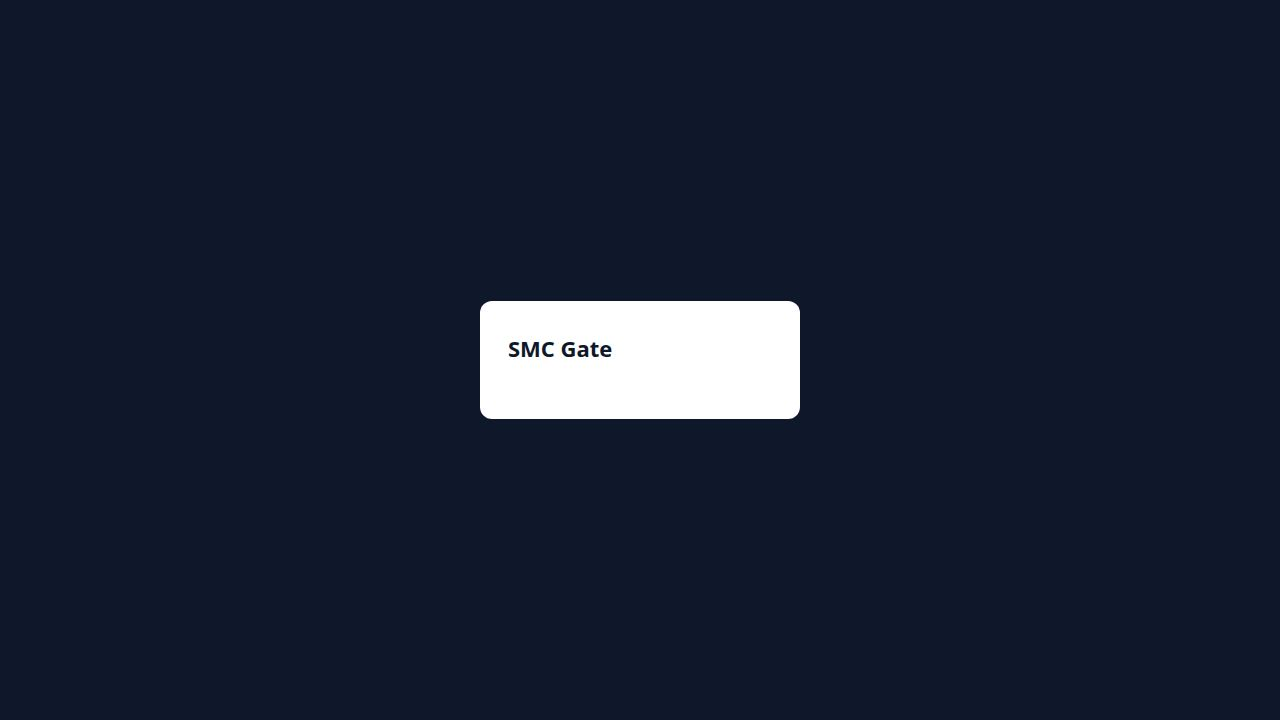
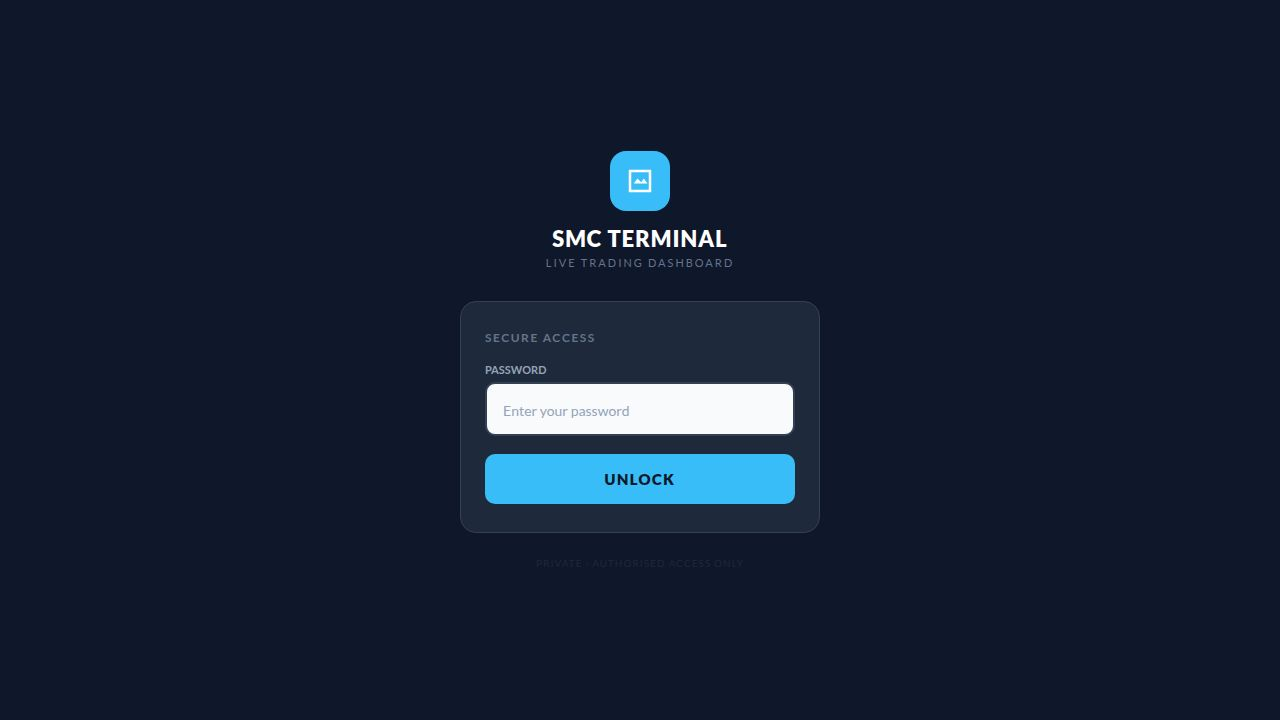
Fix website pages being cut off and not fully loading
Correct WSGI middleware to defer sending headers until after the response body is processed, ensuring full page content is delivered.

Replit-Commit-Author: Agent
Replit-Commit-Session-Id: 19ec08a7-6efd-4a7e-a15a-74d2d2e0fa23
Replit-Commit-Checkpoint-Type: full_checkpoint
Replit-Commit-Event-Id: 8ac51c1c-a0f3-40d0-aae5-dd50f2b35409
Replit-Commit-Screenshot-Url: https://storage.googleapis.com/screenshot-production-us-central1/98ecebad-03b9-400e-b17a-6d9c5aa7caed/19ec08a7-6efd-4a7e-a15a-74d2d2e0fa23/osOo6OW
Replit-Helium-Checkpoint-Created: true

Changed region(s): [[0.375, 0.3972, 0.625, 0.7028], [0.4375, 0.2139, 0.5625, 0.3667]]

diff --git a/artifacts/smc-terminal/templates/login.html b/artifacts/smc-terminal/templates/login.html
@@ -29,23 +29,17 @@
             display: inline-flex;
             align-items: center;
             justify-content: center;
-            width: 56px;
-            height: 56px;
+            width: 60px;
+            height: 60px;
             background: #38bdf8;
-            border-radius: 14px;
+            border-radius: 16px;
             margin-bottom: 14px;
-        }
-
-        .brand-badge svg {
-            width: 28px;
-            height: 28px;
-            fill: white;
         }
 
         .brand-name {
             font-size: 22px;
             font-weight: 900;
-            color: white;
+            color: #ffffff;
             letter-spacing: 1px;
         }
 
@@ -68,47 +62,52 @@
         }
 
         .card-title {
-            font-size: 14px;
+            font-size: 12px;
             font-weight: 700;
-            color: #94a3b8;
+            color: #64748b;
             text-transform: uppercase;
             letter-spacing: 1.5px;
-            margin-bottom: 20px;
+            margin-bottom: 18px;
         }
 
-        .input-wrap {
-            position: relative;
-            margin-bottom: 16px;
-        }
-
-        .input-icon {
-            position: absolute;
-            left: 14px;
-            top: 50%;
-            transform: translateY(-50%);
-            color: #475569;
+        .input-label {
+            font-size: 11px;
+            font-weight: 700;
+            color: #94a3b8;
+            margin-bottom: 6px;
+            display: block;
         }
 
         .input {
+            display: block;
             width: 100%;
-            padding: 14px 14px 14px 42px;
+            padding: 14px 16px;
             border-radius: 10px;
-            border: 1px solid #334155;
-            background: #0f172a;
-            color: white;
-            font-size: 16px;
+            border: 2px solid #334155;
+            background: #f8fafc;
+            color: #0f172a;
+            font-size: 18px;
             font-family: 'Lato', sans-serif;
             outline: none;
-            transition: border-color 0.15s;
+            margin-bottom: 18px;
+            -webkit-appearance: none;
+            appearance: none;
         }
 
-        .input::placeholder { color: #475569; }
+        .input::placeholder {
+            color: #94a3b8;
+            font-size: 14px;
+        }
 
-        .input:focus { border-color: #38bdf8; }
+        .input:focus {
+            border-color: #38bdf8;
+            background: #ffffff;
+        }
 
         .btn {
+            display: block;
             width: 100%;
-            padding: 15px;
+            padding: 16px;
             background: #38bdf8;
             color: #0f172a;
             border: none;
@@ -118,19 +117,17 @@
             font-size: 15px;
             letter-spacing: 1.5px;
             font-family: 'Lato', sans-serif;
-            transition: background 0.15s;
+            -webkit-appearance: none;
+            appearance: none;
         }
 
         .btn:active { background: #0ea5e9; }
 
         .error {
-            display: flex;
-            align-items: center;
-            gap: 8px;
-            background: rgba(239,68,68,0.1);
+            background: rgba(239,68,68,0.12);
             border: 1px solid rgba(239,68,68,0.3);
             border-radius: 8px;
-            padding: 10px 12px;
+            padding: 10px 14px;
             color: #f87171;
             font-size: 13px;
             font-weight: 700;
@@ -138,10 +135,10 @@
         }
 
         .footer-hint {
-            margin-top: 20px;
+            margin-top: 24px;
             text-align: center;
             font-size: 10px;
-            color: #334155;
+            color: #1e293b;
             letter-spacing: 1px;
         }
     </style>
@@ -151,9 +148,8 @@
 
     <div class="brand">
         <div class="brand-badge">
-            <!-- chart/terminal icon -->
-            <svg viewBox="0 0 24 24" xmlns="http://www.w3.org/2000/svg">
-                <path d="M3 3v18h18V3H3zm2 2h14v14H5V5zm2 9l3-4 3 3 2-3 3 4H7z"/>
+            <svg width="30" height="30" viewBox="0 0 24 24" fill="white">
+                <path d="M3 3v18h18V3H3zm2 2h14v14H5V5zm2 9 3-4 3 3 2-3 3 4H7z"/>
             </svg>
         </div>
         <div class="brand-name">SMC TERMINAL</div>
@@ -165,29 +161,21 @@
         <div class="card-title">Secure Access</div>
 
         {% if error %}
-        <div class="error">
-            <svg width="14" height="14" viewBox="0 0 24 24" fill="#f87171">
-                <path d="M12 2C6.48 2 2 6.48 2 12s4.48 10 10 10 10-4.48 10-10S17.52 2 12 2zm1 15h-2v-2h2v2zm0-4h-2V7h2v6z"/>
-            </svg>
-            Incorrect password
-        </div>
+        <div class="error">Incorrect password. Try again.</div>
         {% endif %}
 
-        <form method="POST">
+        <form method="POST" autocomplete="on">
 
-            <div class="input-wrap">
-                <svg class="input-icon" width="16" height="16" viewBox="0 0 24 24" fill="currentColor">
-                    <path d="M18 8h-1V6c0-2.76-2.24-5-5-5S7 3.24 7 6v2H6c-1.1 0-2 .9-2 2v10c0 1.1.9 2 2 2h12c1.1 0 2-.9 2-2V10c0-1.1-.9-2-2-2zm-6 9c-1.1 0-2-.9-2-2s.9-2 2-2 2 .9 2 2-.9 2-2 2zm3.1-9H8.9V6c0-1.71 1.39-3.1 3.1-3.1 1.71 0 3.1 1.39 3.1 3.1v2z"/>
-                </svg>
-                <input
-                    type="password"
-                    name="password"
-                    placeholder="Enter password"
-                    class="input"
-                    autocomplete="current-password"
-                    autofocus
-                >
-            </div>
+            <label class="input-label" for="pw">PASSWORD</label>
+
+            <input
+                id="pw"
+                type="password"
+                name="password"
+                placeholder="Enter your password"
+                class="input"
+                autocomplete="current-password"
+            >
 
             <button type="submit" class="btn">UNLOCK</button>
 

diff --git a/artifacts/smc-terminal/app.py b/artifacts/smc-terminal/app.py
@@ -74,31 +74,38 @@ class PrefixMiddleware:
             for name, value in headers:
                 if name.lower() == "location" and prefix:
                     parsed = urlparse(value)
-                    path = parsed.path
+                    rpath = parsed.path
                     # Add prefix if path doesn't already have it
-                    if path.startswith("/") and not path.startswith(prefix + "/") and path != prefix:
-                        new_path = prefix + path
+                    if rpath.startswith("/") and not rpath.startswith(prefix + "/") and rpath != prefix:
+                        new_path = prefix + rpath
                         value = urlunparse(parsed._replace(path=new_path))
                 new_headers.append((name, value))
-            collected.append((status, new_headers))
-            return start_response(status, new_headers, exc_info)
+            # Capture only — do NOT call start_response yet.
+            # We must defer until after body processing so Content-Length
+            # reflects any bytes added by JS injection.
+            collected.append((status, new_headers, exc_info))
+            # Return a no-op write callable (Flask never uses it)
+            return lambda data: None
 
         body_iter = self.app(environ, capture_start_response)
 
-        if not prefix:
+        if not prefix or not collected:
+            # No prefix or headers not captured — pass straight through
+            if collected:
+                status, hdrs, exc = collected[0]
+                start_response(status, hdrs, exc)
             return body_iter
 
         # Inject a JS interceptor into HTML responses.
-        # This patches window.fetch and window.location so ALL API calls
-        # (string literals, template literals, dynamic URLs) get the right prefix.
-        if collected:
-            status, headers = collected[0]
-            content_type = next((v for k, v in headers if k.lower() == "content-type"), "")
-            if "text/html" in content_type:
-                body = b"".join(body_iter)
-                text = body.decode("utf-8", errors="replace")
+        # This patches window.fetch so ALL API calls get the right prefix.
+        status, headers, exc_info = collected[0]
+        content_type = next((v for k, v in headers if k.lower() == "content-type"), "")
 
-                injected = f"""<script>
+        if "text/html" in content_type:
+            body = b"".join(body_iter)
+            text = body.decode("utf-8", errors="replace")
+
+            injected = f"""<script>
 (function(){{
   var _B = '{prefix}';
   if (!_B) return;
@@ -111,19 +118,26 @@ class PrefixMiddleware:
   }};
 }})();
 </script>"""
-                # Inject right after <head> or at the top of <body>
-                if "<head>" in text:
-                    text = text.replace("<head>", "<head>" + injected, 1)
-                elif "<body>" in text:
-                    text = text.replace("<body>", "<body>" + injected, 1)
-                else:
-                    text = injected + text
-                encoded = text.encode("utf-8")
-                # Update Content-Length
-                new_headers = [(k, str(len(encoded)) if k.lower() == "content-length" else v)
-                               for k, v in headers]
-                return [encoded]
+            # Inject right after <head>, or <body> as fallback
+            if "<head>" in text:
+                text = text.replace("<head>", "<head>" + injected, 1)
+            elif "<body>" in text:
+                text = text.replace("<body>", "<body>" + injected, 1)
+            else:
+                text = injected + text
 
+            encoded = text.encode("utf-8")
+
+            # Build final headers with correct Content-Length BEFORE calling start_response
+            final_headers = [
+                (k, str(len(encoded)) if k.lower() == "content-length" else v)
+                for k, v in headers
+            ]
+            start_response(status, final_headers, exc_info)
+            return [encoded]
+
+        # Non-HTML response — send as-is
+        start_response(status, headers, exc_info)
         return body_iter
 
 
